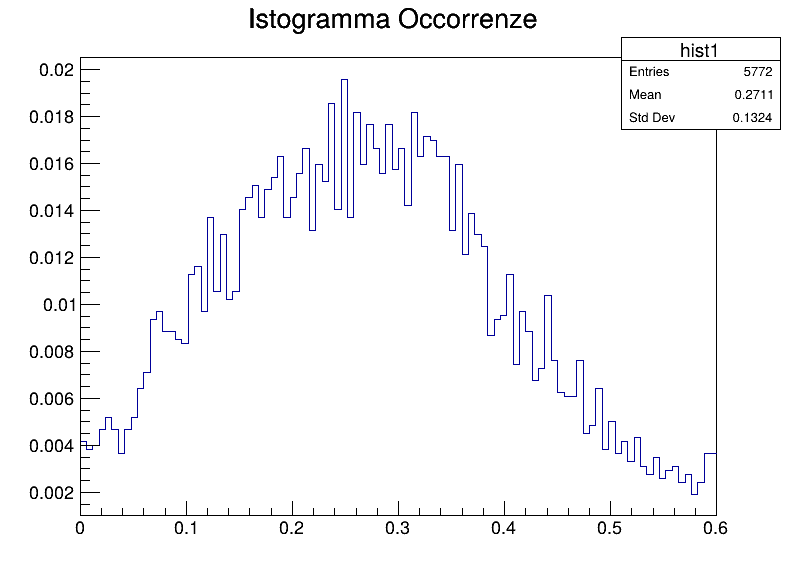
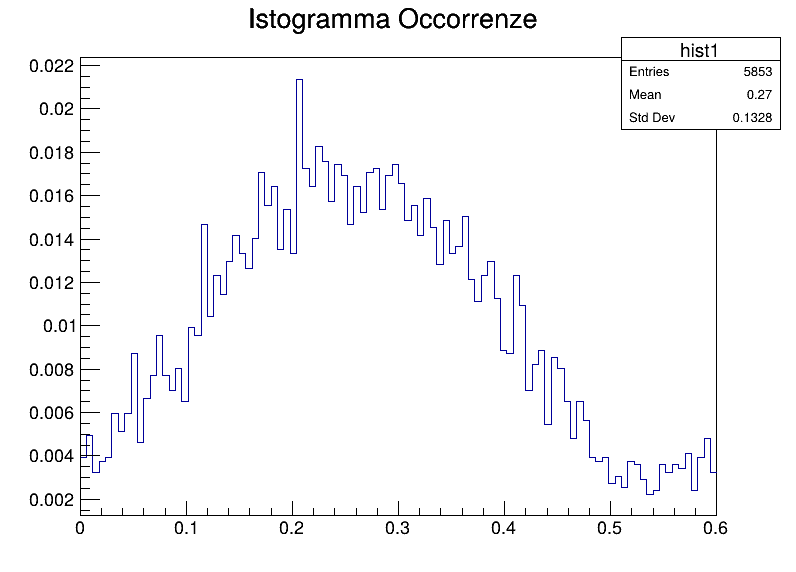
facendo 3.2 (senza successo)

diff --git a/lab1/root_macro.C b/lab1/root_macro.C
@@ -1,4 +1,5 @@
 #include "TGraph.h"
+#include "TGraphErrors.h"
 #include <TCanvas.h>
 #include <TF1.h>
 #include <TFile.h>
@@ -77,9 +78,8 @@ class macro {
         entries += 1;
       }
     }
-    std::cout << "entries: " << entries << '\n';
     static int histCount = 0;
-    TH1F* hist = new TH1F(Form("hist_%d", histCount++), "Istogramma Occorrenze", b, 0, 0.6);
+    TH1F* hist           = new TH1F(Form("hist_%d", histCount++), "Istogramma Occorrenze", b, 0, 0.6);
     for (double val : vx)
       hist->Fill(val);
 
@@ -103,9 +103,8 @@ class macro {
       double xlow        = hist1->GetBinLowEdge(i + 1);
       double xup         = hist1->GetBinLowEdge(i + 2);
       double cosIntegral = cosScaled->Integral(xlow, xup);
-      diff.push_back(cosIntegral - hist1->GetBinContent(i));
+      diff.push_back(cosIntegral - hist1->GetBinContent(i + 1));
       sigma.push_back(cosIntegral);
-      // std::cout << "Differnenza bin " << i << " " << cosIntegral - hist1->GetBinContent(i) << "\n";
     }
 
     double chiSquared;
@@ -146,15 +145,21 @@ class macro {
       sigma[i] = sqrt(sigma[i] / (nGenerazioni - 1));
     }
 
-    TGraph* gSigma = new TGraph(nBin);
-    for (int i = 0; i < nBin; ++i)
-      gSigma->SetPoint(i, i, sigma[i]); //Argomenti: pos in lista, x, y
-
+    TGraphErrors* gSigma = new TGraphErrors(nBin);
+    for (int i = 0; i < nBin; ++i) {
+      gSigma->SetPoint(i, i, media[i]);
+      gSigma->SetPointError(i, 0., sigma[i]); // Argomenti: pos in lista, x, y
+    }
+    
     TCanvas* c = new TCanvas("c_sigma", "Incertezze per bin", 800, 600);
     gSigma->SetTitle("Fluttuazioni bin; Bin; Deviazione standard");
     gSigma->SetMarkerStyle(20);
     gSigma->Draw("AP");
     c->SaveAs("sigma.png");
+  }
+
+  void binSmearing(int n = 1000, int b = 50) {
+    TH1F* hist1 = (TH1F*)(random_generation_hist(n, b)->Clone("hist1"));
   }
 
   void draw() {
